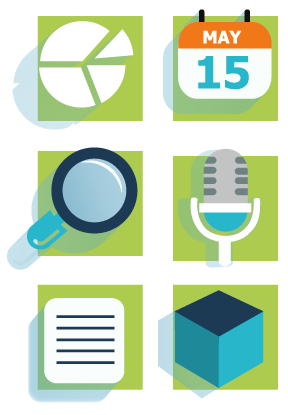
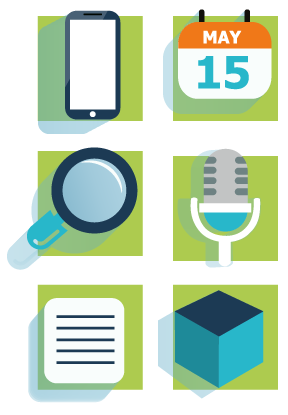
Landing Images changed

Changed region(s): [[0.0312, 0.0, 0.4688, 0.347]]

diff --git a/apps/website/templates/website/landing/index.html b/apps/website/templates/website/landing/index.html
@@ -188,7 +188,7 @@
         .landing-container{margin: auto;max-width: 980px;}
 
 
-        .meeting-picture{background-image: url("{{ STATIC_PREFIX }}img/landing/pic.png");background-position: top center; min-height: 546px;background-position: top center;background-repeat: no-repeat;background-color: #B5BB94;-webkit-background-position:top center;}
+        .meeting-picture{background-image: url("{{ STATIC_PREFIX }}img/landing/pic2.png");background-position: top center; min-height: 546px;background-position: top center;background-repeat: no-repeat;background-color: #c3d7b4;-webkit-background-position:top center;}
         .meeting-picture > div{height: 100%;max-height: 576px;}
         .meeting-picture .block-1{height: 546px;position: relative;top: 0px;}
         .meeting-picture .block-2{height: 100%;display: table;margin:50px auto 0;transition: all 0.5s ease-in-out;}
